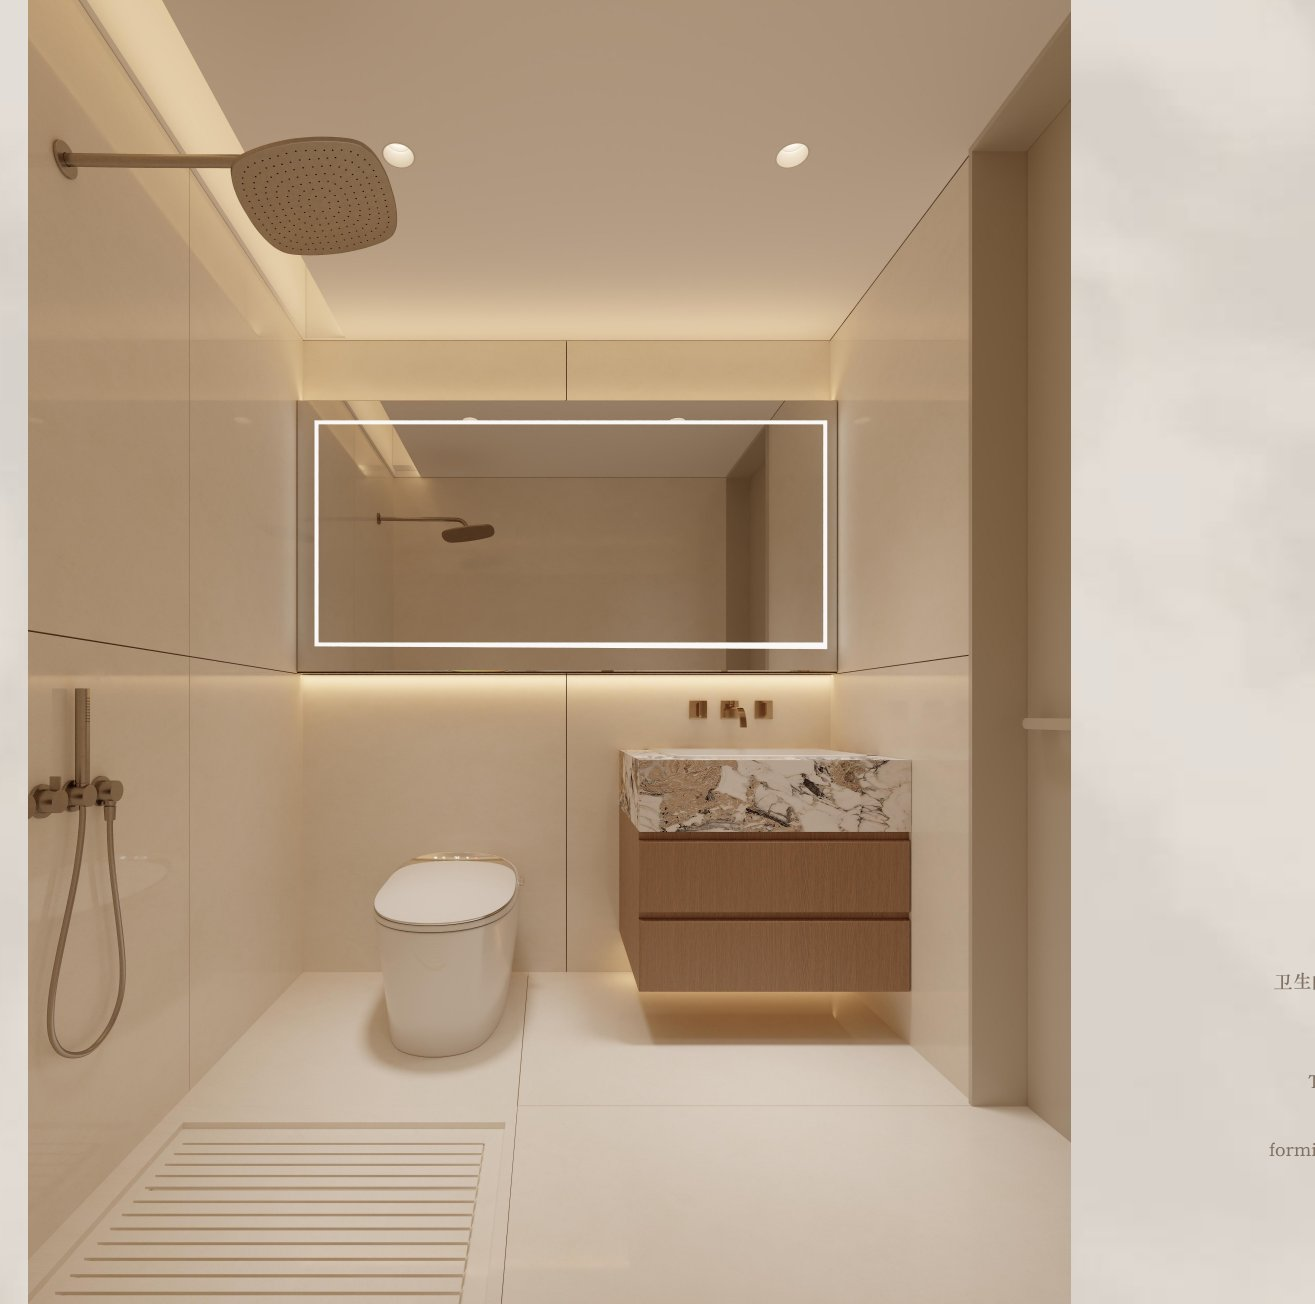
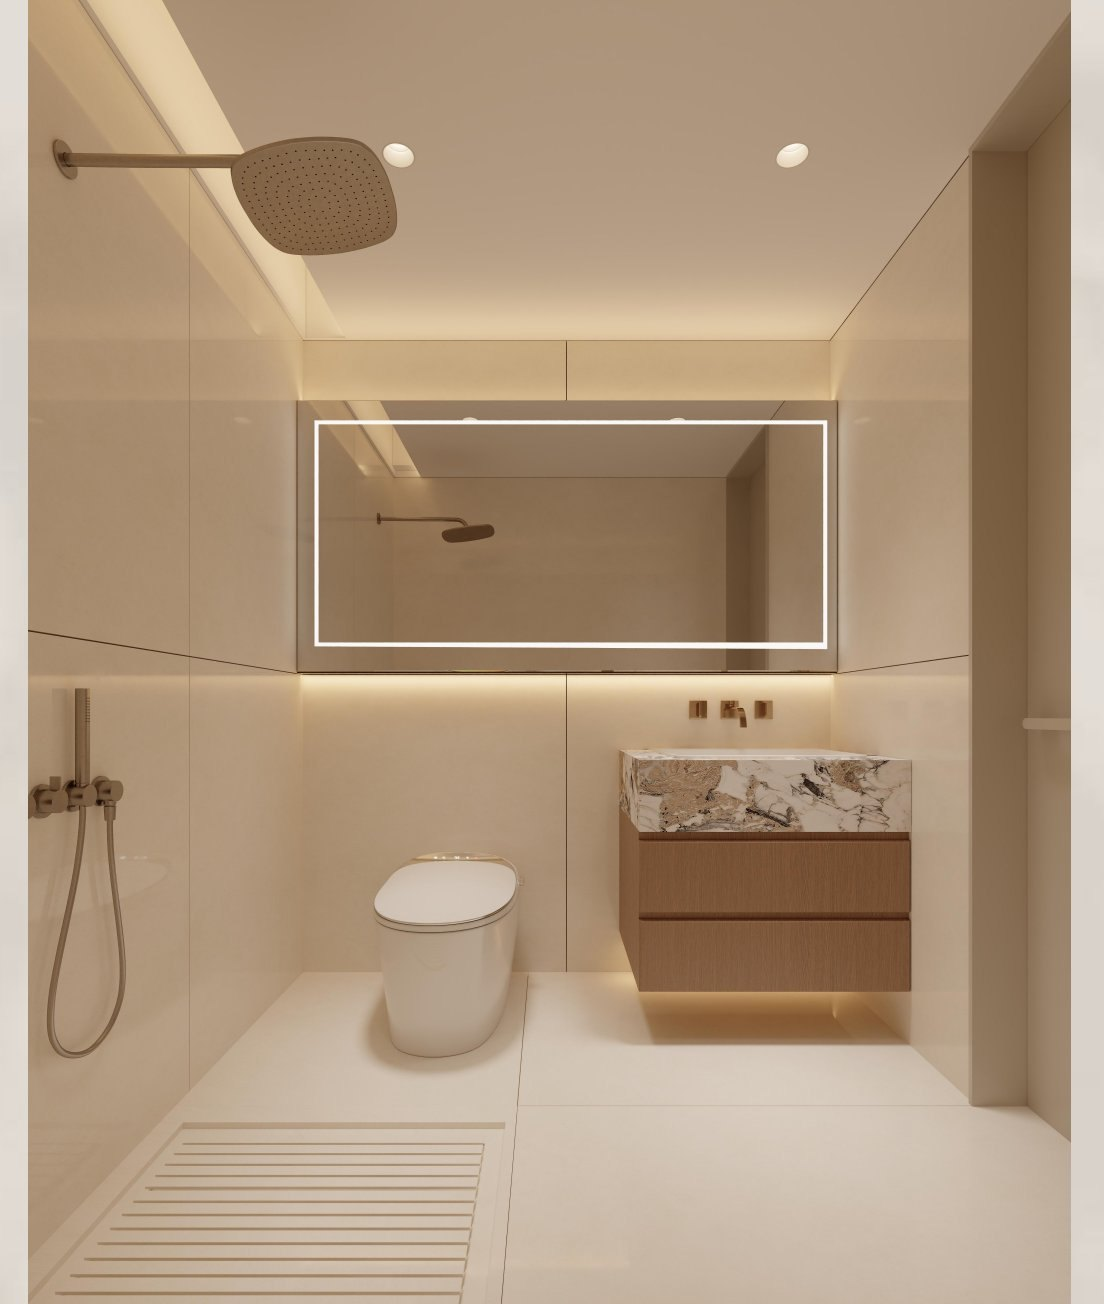
Images: authentic watermark-free veneer set; strip GDHOPSOON watermark from timber; crop catalog text from case pages

diff --git a/systems/veneer.html b/systems/veneer.html
@@ -10,8 +10,8 @@
   <link rel="preconnect" href="https://fonts.googleapis.com">
   <link rel="preconnect" href="https://fonts.gstatic.com" crossorigin>
   <link href="https://fonts.googleapis.com/css2?family=DM+Sans:opsz,wght@9..40,300;9..40,400;9..40,500;9..40,700;9..40,800&family=Fraunces:ital,opsz,wght@0,9..144,300;0,9..144,400;0,9..144,500;1,9..144,400&family=Noto+Sans+SC:wght@400;700;900&family=Noto+Serif+SC:wght@300;400;500&display=swap" rel="stylesheet">
-  <link rel="stylesheet" href="/styles.css?v=15" />
-  <style>.lp-hero { --lp-hero-img: url("/assets/systems/veneer/hero.jpg?v=3"); }</style>
+  <link rel="stylesheet" href="/styles.css?v=16" />
+  <style>.lp-hero { --lp-hero-img: url("/assets/systems/veneer/hero.jpg?v=4"); }</style>
 </head>
 <body>
   <header class="nav">
@@ -87,10 +87,10 @@
         </p>
       </div>
       <div class="lp-gallery">
-        <div class="lp-gallery__item lp-gallery__item--big"  style="background-image:url('/assets/systems/veneer/foyer.jpg')"></div>
-        <div class="lp-gallery__item lp-gallery__item--tall" style="background-image:url('/assets/systems/veneer/bedroom.jpg')"></div>
-        <div class="lp-gallery__item lp-gallery__item--half" style="background-image:url('/assets/systems/veneer/kitchen.jpg')"></div>
-        <div class="lp-gallery__item lp-gallery__item--half" style="background-image:url('/assets/systems/veneer/lounge.jpg')"></div>
+        <div class="lp-gallery__item lp-gallery__item--big"  style="background-image:url('/assets/systems/veneer/foyer.jpg?v=2')"></div>
+        <div class="lp-gallery__item lp-gallery__item--tall" style="background-image:url('/assets/systems/veneer/bedroom.jpg?v=2')"></div>
+        <div class="lp-gallery__item lp-gallery__item--half" style="background-image:url('/assets/systems/veneer/kitchen.jpg?v=2')"></div>
+        <div class="lp-gallery__item lp-gallery__item--half" style="background-image:url('/assets/systems/veneer/lounge.jpg?v=2')"></div>
       </div>
     </div>
   </section>

diff --git a/styles.css b/styles.css
@@ -696,9 +696,9 @@ html[lang="zh-CN"] .project h3 { font-family: var(--serif-cn); }
 }
 .system__img:hover { opacity: 1; }
 .system:hover .system__img { transform: scale(1.01); }
-.system__img--hesheng   { background-image: url("assets/brands/web/hesheng.jpg"); }
+.system__img--hesheng   { background-image: url("assets/brands/web/hesheng.jpg?v=2"); }
 .system__img--youjubang { background-image: url("assets/brands/web/youjubang.jpg"); }
-.system__img--rumusan   { background-image: url("assets/brands/web/rumusan.jpg?v=2"); }
+.system__img--rumusan   { background-image: url("assets/brands/web/rumusan.jpg?v=3"); }
 
 .system__body {
   padding: clamp(36px, 4.5vw, 64px);
@@ -883,10 +883,10 @@ html[lang="zh-CN"] .room__quote { font-family: var(--serif-cn); font-style: norm
 .room__img--kitchen  { background-image: url("assets/case-huang/web/page-06.jpg"); }
 .room__img--dining   { background-image: url("assets/case-huang/web/page-07.jpg"); }
 .room__img--living   { background-image: url("assets/case-huang/web/page-09.jpg"); }
-.room__img--corridor { background-image: url("assets/case-huang/web/page-11.jpg"); }
+.room__img--corridor { background-image: url("assets/case-huang/web/page-11.jpg?v=2"); }
 .room__img--hall     { background-image: url("assets/case-huang/web/page-12.jpg"); }
-.room__img--master   { background-image: url("assets/case-huang/web/page-13.jpg"); }
-.room__img--bath     { background-image: url("assets/case-huang/web/page-16.jpg"); }
+.room__img--master   { background-image: url("assets/case-huang/web/page-13.jpg?v=2"); }
+.room__img--bath     { background-image: url("assets/case-huang/web/page-16.jpg?v=2"); }
 
 @media (max-width: 1000px) {
   .case__head { grid-template-columns: 1fr; }

diff --git a/systems/timber.html b/systems/timber.html
@@ -10,8 +10,8 @@
   <link rel="preconnect" href="https://fonts.googleapis.com">
   <link rel="preconnect" href="https://fonts.gstatic.com" crossorigin>
   <link href="https://fonts.googleapis.com/css2?family=DM+Sans:opsz,wght@9..40,300;9..40,400;9..40,500;9..40,700;9..40,800&family=Fraunces:ital,opsz,wght@0,9..144,300;0,9..144,400;0,9..144,500;1,9..144,400&family=Noto+Sans+SC:wght@400;700;900&family=Noto+Serif+SC:wght@300;400;500&display=swap" rel="stylesheet">
-  <link rel="stylesheet" href="/styles.css?v=15" />
-  <style>.lp-hero { --lp-hero-img: url("/assets/systems/timber/hero.jpg?v=3"); }</style>
+  <link rel="stylesheet" href="/styles.css?v=16" />
+  <style>.lp-hero { --lp-hero-img: url("/assets/systems/timber/hero.jpg?v=4"); }</style>
 </head>
 <body>
   <header class="nav">
@@ -115,7 +115,7 @@
         <h2 class="h2" data-zh="从一个房间，看见一整间家。" data-en="Through one room, see the whole home.">从一个房间，看见一整间家。</h2>
       </div>
       <div class="lp-gallery">
-        <div class="lp-gallery__item lp-gallery__item--big"  style="background-image:url('/assets/systems/timber/bedroom.jpg')"></div>
+        <div class="lp-gallery__item lp-gallery__item--big"  style="background-image:url('/assets/systems/timber/bedroom.jpg?v=2')"></div>
         <div class="lp-gallery__item lp-gallery__item--tall" style="background-image:url('/assets/systems/timber/dining.jpg')"></div>
         <div class="lp-gallery__item lp-gallery__item--half" style="background-image:url('/assets/systems/timber/kitchen-mint.jpg')"></div>
         <div class="lp-gallery__item lp-gallery__item--half" style="background-image:url('/assets/systems/timber/dining-dark.jpg')"></div>

diff --git a/index.html b/index.html
@@ -10,7 +10,7 @@
   <link rel="preconnect" href="https://fonts.googleapis.com">
   <link rel="preconnect" href="https://fonts.gstatic.com" crossorigin>
   <link href="https://fonts.googleapis.com/css2?family=DM+Sans:opsz,wght@9..40,300;9..40,400;9..40,500;9..40,700;9..40,800&family=Fraunces:ital,opsz,wght@0,9..144,300;0,9..144,400;0,9..144,500;1,9..144,400&family=Noto+Sans+SC:wght@400;700;900&family=Noto+Serif+SC:wght@300;400;500&display=swap" rel="stylesheet">
-  <link rel="stylesheet" href="styles.css?v=15" />
+  <link rel="stylesheet" href="styles.css?v=16" />
 </head>
 <body>
   <!-- NAV -->
@@ -125,7 +125,7 @@
         </div>
       </article>
       <article class="service">
-        <div class="service__thumb" style="background-image:url('/assets/case-huang/web/page-16.jpg')"></div>
+        <div class="service__thumb" style="background-image:url('/assets/case-huang/web/page-16.jpg?v=2')"></div>
         <div class="service__body">
           <p class="service__num">04</p>
           <h3 data-zh="浴室柜" data-en="Bathrooms">浴室柜</h3>
@@ -135,7 +135,7 @@
         </div>
       </article>
       <article class="service">
-        <div class="service__thumb" style="background-image:url('/assets/case-huang/web/page-11.jpg')"></div>
+        <div class="service__thumb" style="background-image:url('/assets/case-huang/web/page-11.jpg?v=2')"></div>
         <div class="service__body">
           <p class="service__num">05</p>
           <h3 data-zh="全屋定制" data-en="Whole-home Joinery">全屋定制</h3>

diff --git a/systems/steel.html b/systems/steel.html
@@ -10,7 +10,7 @@
   <link rel="preconnect" href="https://fonts.googleapis.com">
   <link rel="preconnect" href="https://fonts.gstatic.com" crossorigin>
   <link href="https://fonts.googleapis.com/css2?family=DM+Sans:opsz,wght@9..40,300;9..40,400;9..40,500;9..40,700;9..40,800&family=Fraunces:ital,opsz,wght@0,9..144,300;0,9..144,400;0,9..144,500;1,9..144,400&family=Noto+Sans+SC:wght@400;700;900&family=Noto+Serif+SC:wght@300;400;500&display=swap" rel="stylesheet">
-  <link rel="stylesheet" href="/styles.css?v=15" />
+  <link rel="stylesheet" href="/styles.css?v=16" />
   <style>.lp-hero { --lp-hero-img: url("/assets/systems/steel/hero.jpg?v=3"); }</style>
 </head>
 <body>
@@ -109,7 +109,7 @@
         <div class="lp-gallery__item lp-gallery__item--big"  style="background-image:url('/assets/case-huang/web/page-06.jpg')"></div>
         <div class="lp-gallery__item lp-gallery__item--tall" style="background-image:url('/assets/systems/steel/laundry.jpg')"></div>
         <div class="lp-gallery__item lp-gallery__item--half" style="background-image:url('/assets/case-huang/web/page-07.jpg')"></div>
-        <div class="lp-gallery__item lp-gallery__item--half" style="background-image:url('/assets/case-huang/web/page-13.jpg')"></div>
+        <div class="lp-gallery__item lp-gallery__item--half" style="background-image:url('/assets/case-huang/web/page-13.jpg?v=2')"></div>
       </div>
     </div>
   </section>
